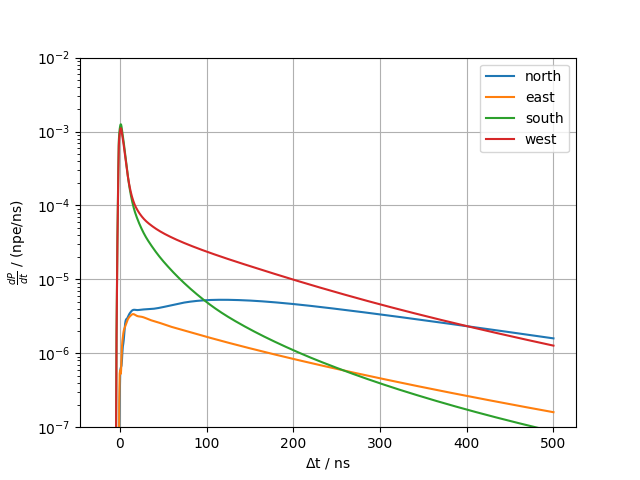
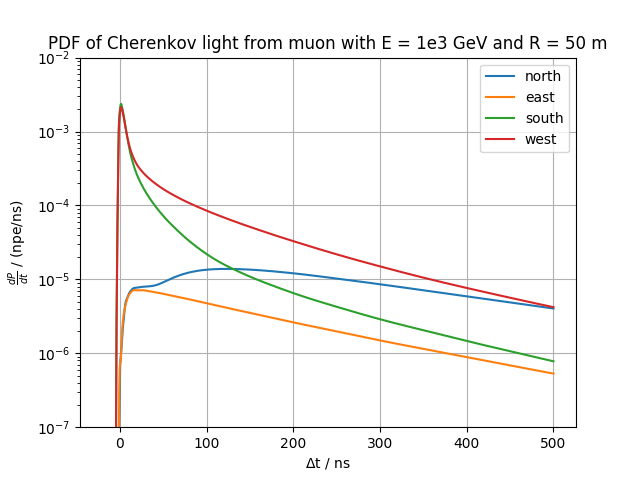
Update example to use 1e3 GeV muon

diff --git a/examples/cherenkov_muon.py b/examples/cherenkov_muon.py
@@ -11,7 +11,7 @@ Usage:
 
 Options:
     -f FILE_DESCRIPTOR  Descriptor of the PDFs (e.g. $JPP_DIR/data/J%p.dat).
-    --energy=<GeV>      Muon energy [default: 1.0].
+    --energy=<GeV>      Muon energy [default: 1e3].
     --distance=<m>      Distance of approach [default: 50].
     --tts=<ns>          PMT time smearing [default: 0.0].
     --xmin=<ns>         X-axis minimum [default: -20].
@@ -62,6 +62,9 @@ def main():
         ax.plot(xs, list(map(pdf, xs)), label=direction)
         ax.set_yscale("log")
 
+    plt.title(
+        "PDF of Cherenkov light from muon with E = {} GeV and R = {} m".format(
+            args['--energy'], args['--distance']))
     plt.ylim([float(args['--ymin']), float(args['--ymax'])])
     plt.ylabel(r"$\frac{dP}{dt}$ / (npe/ns)")
     plt.xlabel(r"$\Delta$t / ns")
